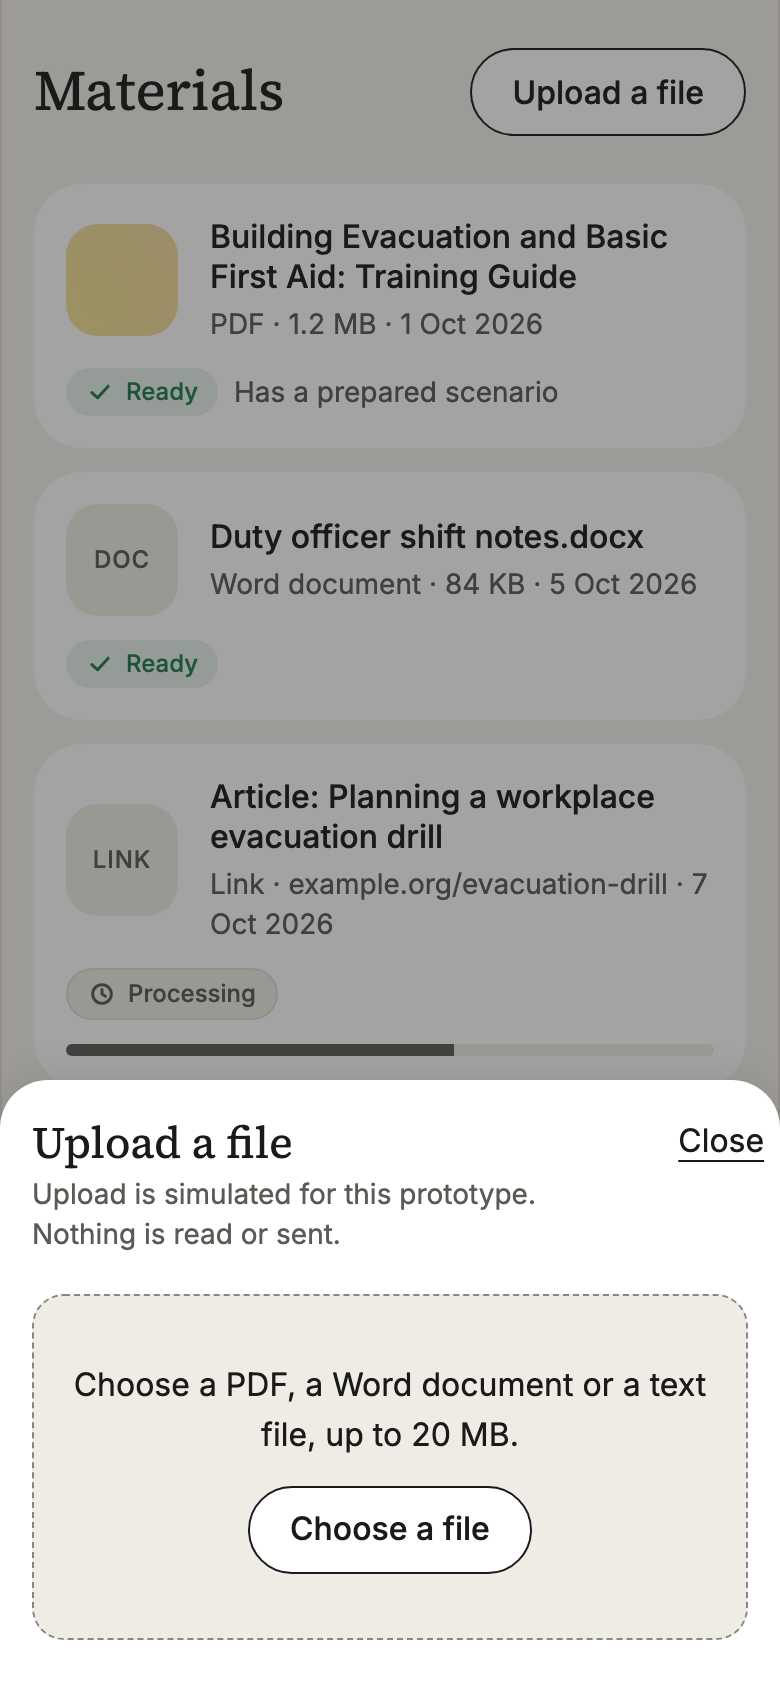
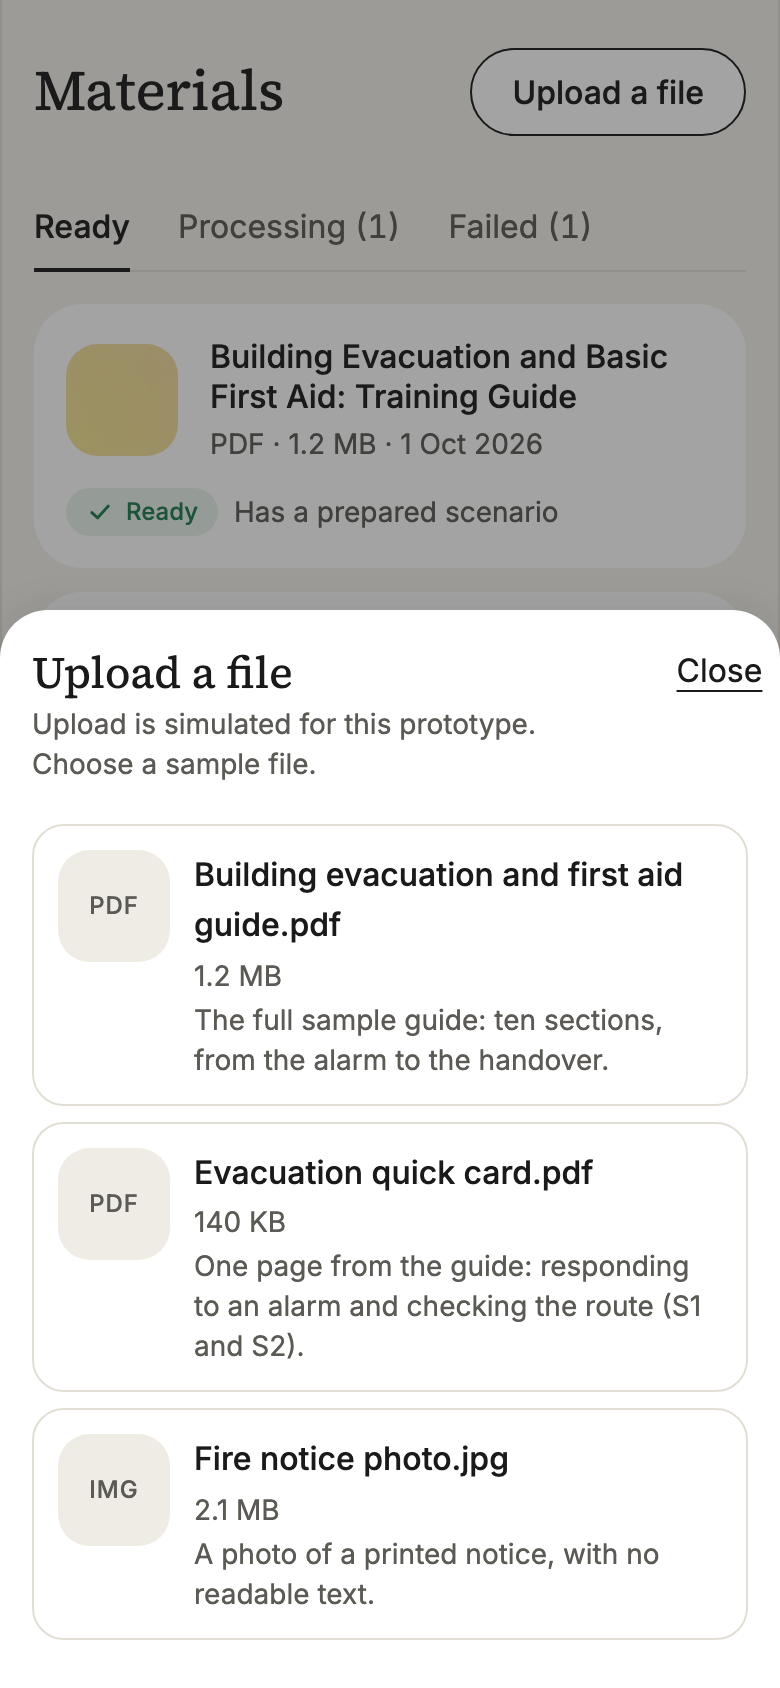
feat: upload offers sample files that run the processing flow
The sheet lists the guide, a one-page quick card and a photo that fails.
Choosing one adds it under Processing, then Ready or Failed.

diff --git a/components/UploadSheet/UploadSheet.tsx b/components/UploadSheet/UploadSheet.tsx
@@ -4,13 +4,22 @@ import { useRouter } from "next/navigation";
 import { useEffect, useRef, useState } from "react";
 import { Button } from "@/components/Button/Button";
 import { StatusBadge } from "@/components/StatusBadge/StatusBadge";
-import { formatSize, materialFromUpload, simulateUpload } from "@/lib/materials";
+import { FileCover } from "@/components/FileCover/FileCover";
+import { formatSize } from "@/lib/materials";
+import { materialFromSample, sampleFiles } from "@/lib/training";
+import type { SampleFile } from "@/lib/training";
 import { addUpload, updateUpload } from "@/lib/uploads";
 import type { Material } from "@/lib/materials";
 
 export type Stage =
   | { kind: "choose" }
-  | { kind: "progress"; id: string; file: { name: string; size: number }; percent: number }
+  | {
+      kind: "progress";
+      id: string;
+      file: { name: string; size: number };
+      percent: number;
+      result: Material;
+    }
   | { kind: "done"; material: Material };
 
 /** The upload sheet's content, also drawn on its own by the screen review page. */
@@ -23,7 +32,7 @@ export function UploadPanel({
 }: {
   stage: Stage;
   onStage: (stage: Stage) => void;
-  onChooseFile: (file: { name: string; size: number }) => void;
+  onChooseFile: (file: SampleFile) => void;
   onClose: () => void;
   onOpenMaterial: (id: string) => void;
 }) {
@@ -35,7 +44,7 @@ export function UploadPanel({
             Upload a file
           </h2>
           <p className="text-sm text-text-secondary">
-            Upload is simulated for this prototype. Nothing is read or sent.
+            Upload is simulated for this prototype. Choose a sample file.
           </p>
         </div>
         <button
@@ -48,21 +57,24 @@ export function UploadPanel({
       </div>
 
       {stage.kind === "choose" && (
-        <div className="flex flex-col items-center gap-3 rounded-panel border border-dashed border-border-strong bg-surface-muted px-4 py-8 text-center">
-          <p>Choose a PDF, a Word document or a text file, up to 20 MB.</p>
-          <label className="inline-flex min-h-11 cursor-pointer items-center rounded-full border border-text bg-surface px-5 font-medium hover:bg-surface-muted has-focus-visible:outline-2 has-focus-visible:outline-offset-2 has-focus-visible:outline-accent">
-            <input
-              type="file"
-              className="sr-only"
-              onChange={(event) => {
-                const file = event.target.files?.[0];
-                event.target.value = "";
-                if (file) onChooseFile({ name: file.name, size: file.size });
-              }}
-            />
-            Choose a file
-          </label>
-        </div>
+        <ul className="flex flex-col gap-2" aria-label="Sample files">
+          {sampleFiles.map((file) => (
+            <li key={file.id}>
+              <button
+                type="button"
+                onClick={() => onChooseFile(file)}
+                className="flex w-full items-start gap-3 rounded-panel border border-border bg-surface p-3 text-left hover:border-text-secondary"
+              >
+                <FileCover type={file.name.endsWith(".jpg") ? "Image" : "PDF"} />
+                <span className="flex min-w-0 flex-col gap-0.5">
+                  <span className="font-medium break-words">{file.name}</span>
+                  <span className="text-sm text-text-secondary">{formatSize(file.size)}</span>
+                  <span className="text-sm text-text-secondary">{file.summary}</span>
+                </span>
+              </button>
+            </li>
+          ))}
+        </ul>
       )}
 
       {stage.kind === "progress" && (
@@ -102,10 +114,7 @@ export function UploadPanel({
             </>
           ) : (
             <>
-              <p className="text-text-secondary">
-                The file is in your materials. In this prototype a scenario is prepared for the
-                sample guide only.
-              </p>
+              <p className="text-text-secondary">The file is in your materials, under Ready.</p>
               <Button onClick={() => onOpenMaterial(stage.material.id)}>Open material</Button>
             </>
           )}
@@ -118,8 +127,8 @@ export function UploadPanel({
 const STEP_MS = 120;
 
 /**
- * A button that opens the simulated upload sheet. Only the chosen file's name and size are used;
- * its content is never read or sent anywhere.
+ * A button that opens the simulated upload sheet with sample files. Choosing one adds it under
+ * Processing, then shows it as Ready or Failed.
  */
 export function UploadButton({
   label = "Upload a file",
@@ -150,8 +159,7 @@ export function UploadButton({
     }
     // Finished: decide the simulated outcome once, save it, and show it.
     const timer = setTimeout(() => {
-      const result = materialFromUpload(stage.file, simulateUpload(stage.file), new Date());
-      const material = { ...result, id: stage.id };
+      const material = stage.result;
       updateUpload(stage.id, { ...material, progress: undefined });
       setStage({ kind: "done", material });
       onUploadEnd?.(material.status === "failed" ? "failed" : "ready");
@@ -181,15 +189,16 @@ export function UploadButton({
         <UploadPanel
           stage={stage}
           onStage={setStage}
-          onChooseFile={(file) => {
-            const material: Material = {
-              ...materialFromUpload(file, simulateUpload(file), new Date()),
-              status: "processing",
-              progress: 0,
-              reason: undefined,
-            };
-            addUpload(material);
-            setStage({ kind: "progress", id: material.id, file, percent: 0 });
+          onChooseFile={(sample) => {
+            const result = materialFromSample(sample, new Date());
+            addUpload({ ...result, status: "processing", progress: 0, reason: undefined });
+            setStage({
+              kind: "progress",
+              id: result.id,
+              file: { name: sample.name, size: sample.size },
+              percent: 0,
+              result,
+            });
             onUploadStart?.();
           }}
           onClose={() => dialogRef.current?.close()}

diff --git a/app/screens/samples.tsx b/app/screens/samples.tsx
@@ -28,7 +28,8 @@ import type { Response } from "@/lib/quiz";
 import { simulatedFeedback } from "@/lib/feedback";
 import { getStep, scenario, sessionLengths } from "@/lib/scenario";
 import { defaultDirection } from "@/lib/directions";
-import { materialFromUpload, sampleMaterials, simulateUpload } from "@/lib/materials";
+import { sampleMaterials } from "@/lib/materials";
+import { materialFromSample, sampleFiles } from "@/lib/training";
 import { currentWeakItems, scoreStep } from "@/lib/scoring";
 
 /** Interactive sample screens for the /screens review page. They never touch the saved session. */
@@ -283,19 +284,15 @@ export function ChatFeedbackSample() {
 
 /** The materials list with the upload sheet drawn over it in one of its states. */
 export function UploadSample({ state }: { state: "choose" | "progress" | "failed" }) {
-  const file =
-    state === "failed"
-      ? { name: "Notice-board-photo.jpg", size: 300_000 }
-      : { name: "Fire-drill-plan.pdf", size: 2_621_440 };
+  const sample = state === "failed" ? sampleFiles[2] : sampleFiles[0];
+  const result = materialFromSample(sample, new Date("2026-10-08"));
+  const file = { name: sample.name, size: sample.size };
   const stage: Stage =
     state === "choose"
       ? { kind: "choose" }
       : state === "progress"
-        ? { kind: "progress", id: "sample-upload", file, percent: 40 }
-        : {
-            kind: "done",
-            material: materialFromUpload(file, simulateUpload(file), new Date("2026-10-08")),
-          };
+        ? { kind: "progress", id: result.id, file, percent: 40, result }
+        : { kind: "done", material: result };
   return (
     <>
       <MaterialsList samples={sampleMaterials} />
